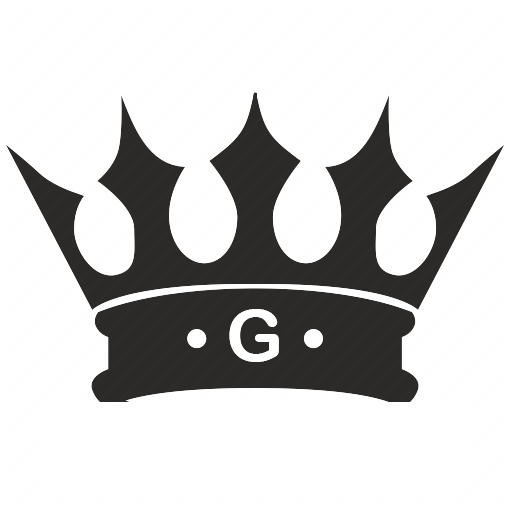
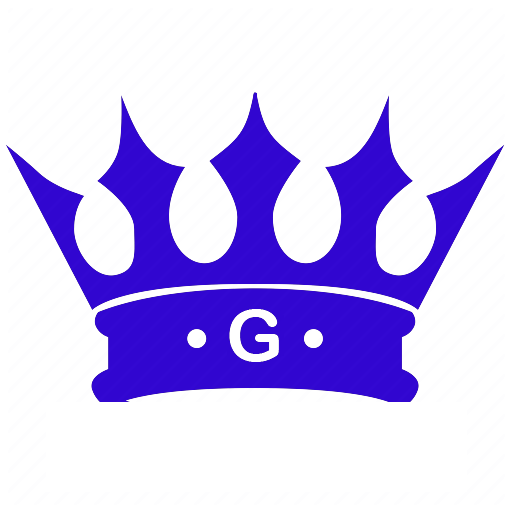
Changed color of duke to be more visible when using dark mode and also to make it different to previous duke version

Changed region(s): [[0.0, 0.1875, 1.0, 0.8125]]

diff --git a/app/scripts/app/controllers/controllers.js b/app/scripts/app/controllers/controllers.js
@@ -9,7 +9,7 @@
       "ClientInfoService",
       "PortService",
       function ($scope, clientInfo, ClientInfoService, PortService) {
-        $scope.currentVersion = "1.0.1";
+        $scope.currentVersion = "1.0.2";
         $scope.clientInfo = clientInfo;
         $scope.enableCobrowse = function () {
           ClientInfoService.enableCobrowse();
